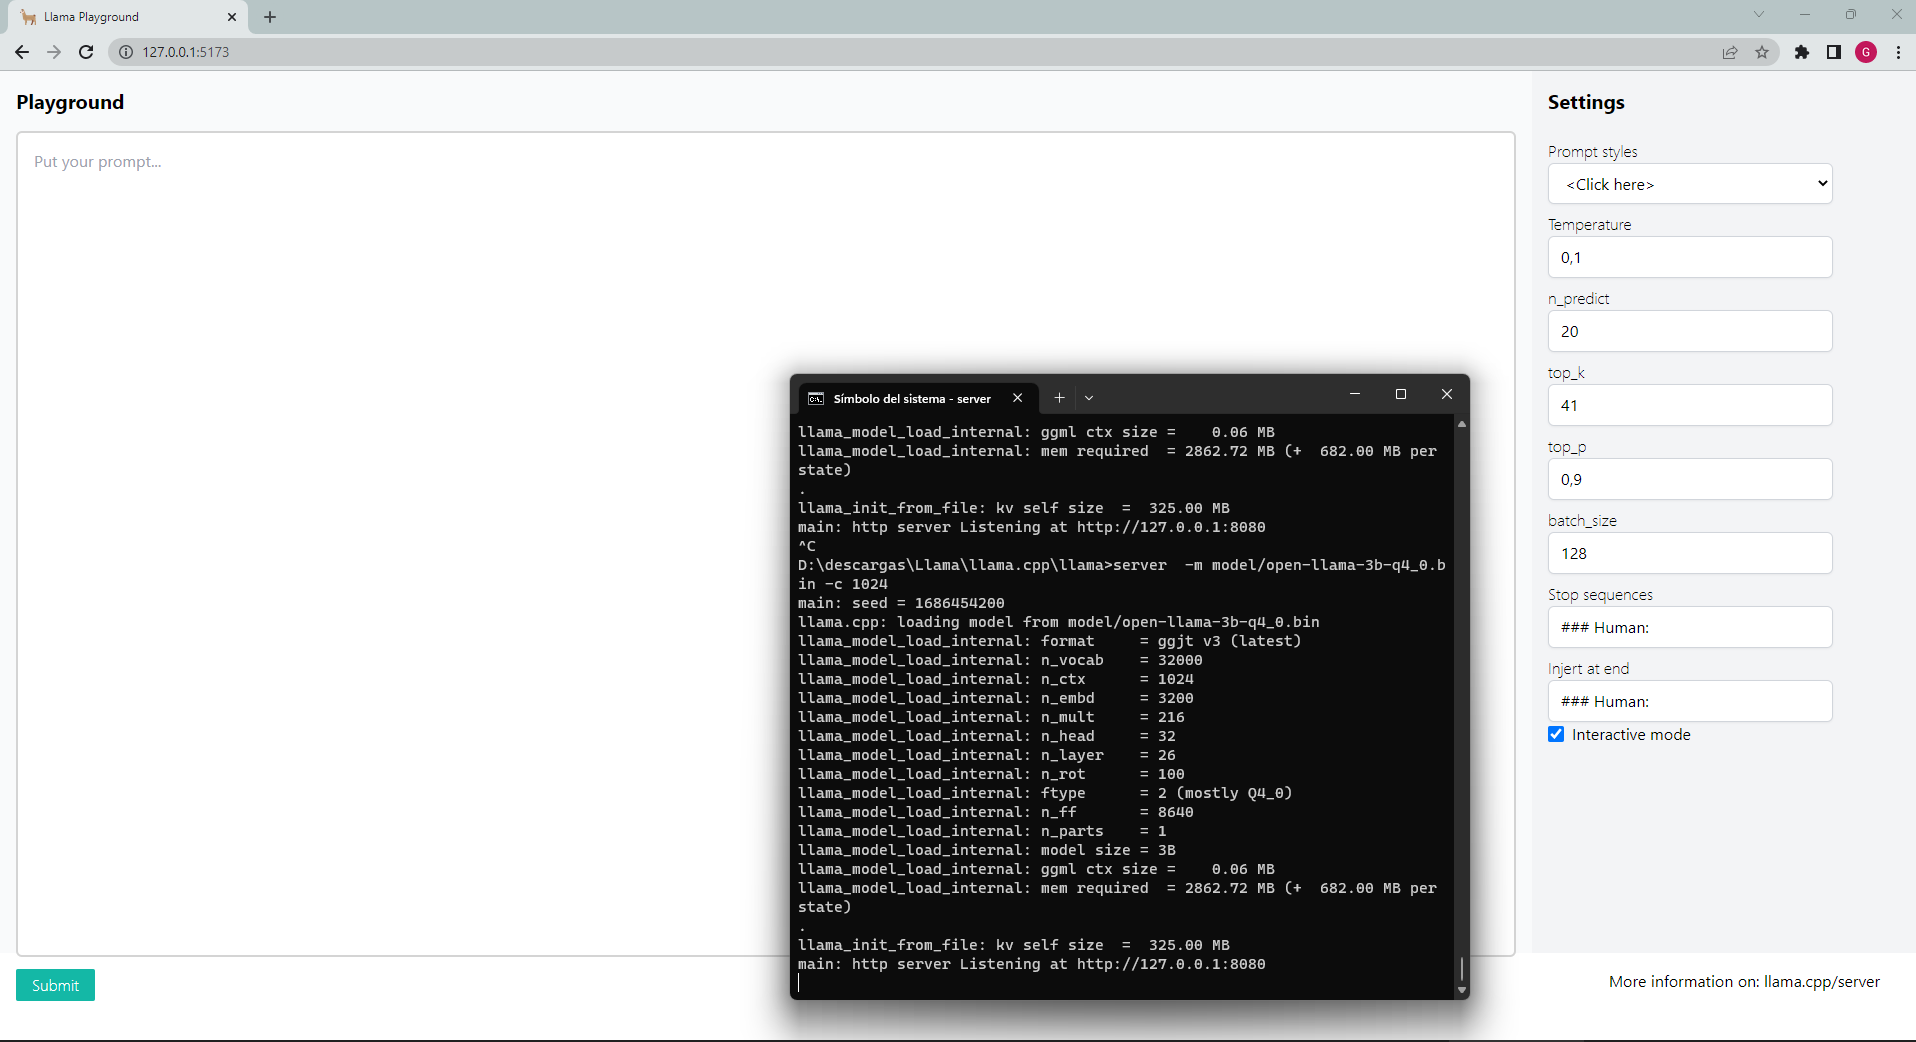
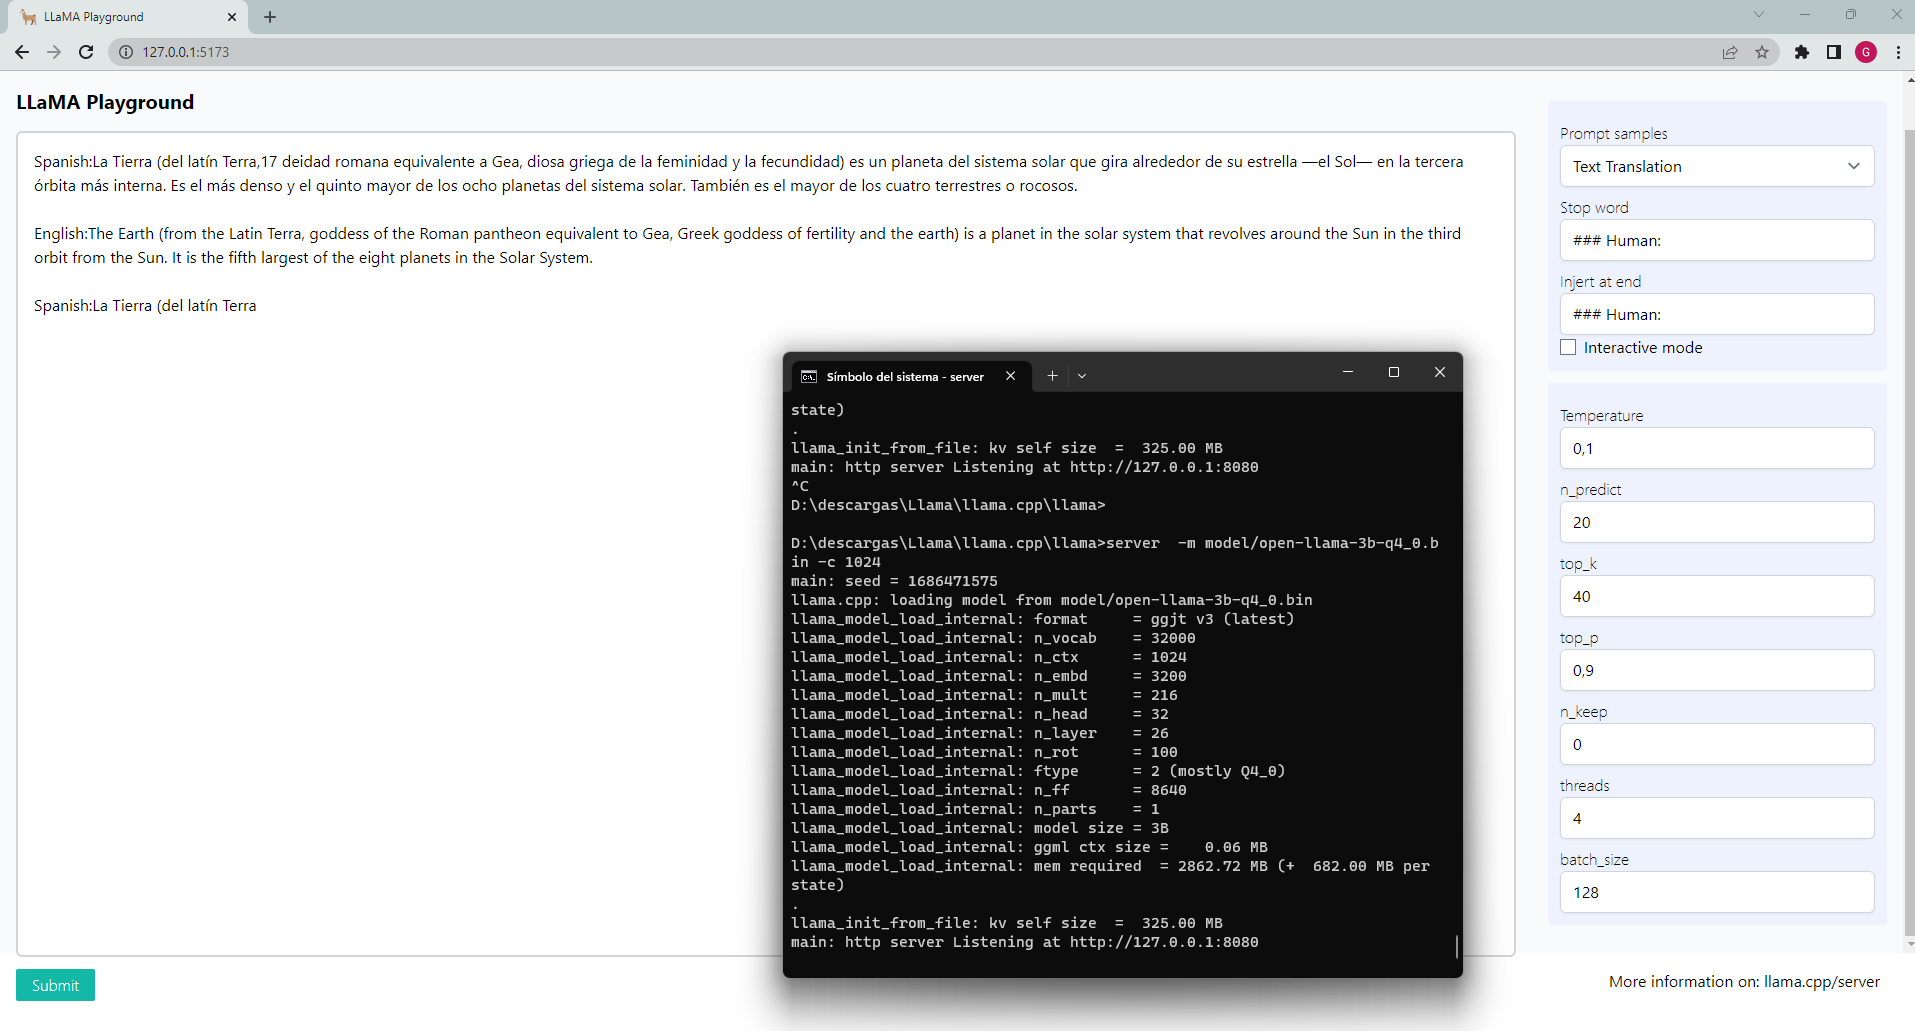
ui improvements, tooltips

diff --git a/src/components/Playground.vue b/src/components/Playground.vue
@@ -1,62 +1,87 @@
 <template>
-  <div  class="lg:h-[91vh] h-[88vh] cursor-default" 
+  <div  class="lg:h-[91vh] h-[85vh] cursor-default" 
   @keyup.ctrl.enter="getStreamCompletion()"
   @keyup.alt.c="stopCompletion()"
   @keyup.alt.l="clearAll()"
   >
-    <div class="flex h-full">
 
-     
+
+    <div class="flex h-full">
       <div class="flex-grow w-full h-full pb-10 bg-gray-50 p-4">
-        <h2 class="text-xl font-bold mb-4">Playground</h2>
+        <h2 class="flex justify-start text-xl font-bold mb-4">LLaMA Playground<div :class="{ 'hidden' : !completing }"><svg fill="rgb(20 184 166)" width="24" height="24" viewBox="0 0 24 24" xmlns="http://www.w3.org/2000/svg"><circle class="spinner_I8Q1" cx="4" cy="12" r="1.5"/><circle class="spinner_I8Q1 spinner_vrS7" cx="12" cy="12" r="3"/><circle class="spinner_I8Q1"  cx="20" cy="12" r="1.5"/></svg></div></h2>
 
         <!-- Prompt Area -->
-        <textarea ref="promptBoxArea" v-model="promptBoxContent" class="w-full h-full resize-none p-4 border-2 rounded-md border-neutral-300 outline-none" placeholder="Put your prompt...">Esto es</textarea>
+        <textarea ref="promptBoxArea" v-model="promptBoxContent" class="w-full h-full resize-none p-4 border-2 rounded-md border-neutral-300 outline-none" placeholder="Put your prompt..."></textarea>
       </div>
 
       <!-- Settings panel -->
-      <div class="w-1/4 p-4 bg-gray-100 overflow-auto ">
+      <div class="w-1/4 p-4 bg-gray-50  overflow-auto ">
         <h2 class="text-xl font-bold mb-4">Settings</h2>
 
-        <!-- Preset select -->
-        <h1 class="font-light pt-2">Prompt styles</h1>
-        <select class="w-4/5   block w-full py-2 px-3 border border-gray-300 rounded-md shadow-sm focus:outline-none w- focus:ring-indigo-500" @change="handlePresets($event)">
-          <option v-for="value, key in presets" :value="value.value" :key="value.value">{{ key }}</option>
-        </select>
+        <div class="pt-4">
+          <div class="bg-indigo-50 rounded p-3">
+            <!-- Preset select -->
+            <h1 class="font-light pt-2">Prompt samples</h1>
+            <select class="w-4/5   block w-full py-2 px-3 border border-gray-300 rounded-md shadow-sm focus:outline-none w- focus:ring-indigo-500" @change="handlePresets($event)">
+              <option v-for="value, key in samplePrompts" :value="value.value" :key="value.value">{{ key }}</option>
+            </select>
+            <h1 class="font-light pt-2">Stop word</h1>
+            <PopOver target="p_stop_sequence" title="Stop Sequences" message="The prompt completion will stop when this value/s are detected. Input split separated with ','"></PopOver>
+            <input data-popover-target="p_stop_sequence" v-model="p_stop_words" type="text" class="block w-full py-2 px-3 border border-gray-300 rounded-md shadow-sm w-4/5 focus:outline-none focus:ring-indigo-500">
 
-        <!-- temperature -->
-        <h1 class="font-light pt-2">Temperature</h1>
-        <input v-model="p_temperature" type="number" step="0.1" min="0" max="1"  class="appearance-none block w-full py-2 px-3  w-4/5 border border-gray-300 rounded-md shadow-sm focus:outline-none focus:ring-indigo-500 max-w-xs">
-        
-        <!-- n_predict  -->
-        <h1 class="font-light pt-2">n_predict</h1>
-        <input v-model="p_n_predict" type="number" step="1" min="0" max="2048"  class="appearance-none block w-full py-2 px-3 w-4/5 border border-gray-300 rounded-md shadow-sm focus:outline-none focus:ring-indigo-500 max-w-xs">
+            <h1 class="font-light pt-2">Injert at end</h1>
+            <PopOver target="p_injert_end" title="Injert at the end" message="After each completion and if interaction mode is checked, this value will be added at the end of the prompt."></PopOver>
+            <input data-popover-target="p_injert_end" v-model="p_injertion_end" type="text" class="block w-full py-2 px-3 border border-gray-300 rounded-md shadow-sm w-4/5 focus:outline-none focus:ring-indigo-500">
 
-        
-        <!-- top_k  -->
-        <h1 class="font-light pt-2">top_k</h1>
-        <input v-model="p_top_k" type="number" step="1" min="0" max="2048"  class="appearance-none block w-full py-2 px-3 border w-4/5 border-gray-300 rounded-md shadow-sm focus:outline-none focus:ring-indigo-500 max-w-xs">
+            <PopOver target="p_interactive_mode" title="Interactive mode" message="The completion stops when a stop word is detected."></PopOver>
+            <div data-popover-target="p_interactive_mode" class="flex items-center">
+              <input   type="checkbox" v-model="p_interactive" id="checkbox" class="form-checkbox  text-indigo-500 h-4 w-4">
+              <label for="checkbox" class="align-middle ml-2">Interactive mode</label>
+            </div>
+          </div>
+        </div>  
+        <div class="py-3">
+          <div class="bg-indigo-50  rounded p-3">
+            <!-- temperature -->
+            <h1 class="font-light pt-2">Temperature</h1>
+            <PopOver target="n_p_temperature" title="Temperature" message="Control the randomness or creativity."></PopOver>
+            <input data-popover-target="n_p_temperature" v-model="p_temperature" type="number" step="0.1" min="0" max="1"  class="appearance-none block w-full py-2 px-3  w-4/5 border border-gray-300 rounded-md shadow-sm focus:outline-none focus:ring-indigo-500 max-w-xs">
+            
+            <!-- n_predict  -->
+            <h1 class="font-light pt-2">n_predict</h1>
+            <PopOver target="n_p_tooltip" title="Numbers of tokens" message="Numbers of tokens to predict when output is generated."></PopOver>
+            <input data-popover-target="n_p_tooltip"  v-model="p_n_predict" type="number" step="1" min="0" max="2048"  class="appearance-none block w-full py-2 px-3 w-4/5 border border-gray-300 rounded-md shadow-sm focus:outline-none focus:ring-indigo-500 max-w-xs">
 
-        <!-- top_p  -->
-        <h1 class="font-light pt-2">top_p</h1>
-        <input v-model="p_top_p" type="number" step="1" min="0" max="2048"  class="appearance-none block w-full py-2 px-3 border w-4/5 border-gray-300 rounded-md shadow-sm focus:outline-none focus:ring-indigo-500 max-w-xs">
+            
+            <!-- top_k  -->
+            <h1 class="font-light pt-2">top_k</h1>
+            <PopOver target="n_p_top_k" title="Top K" message="During each token, select the most probable from K tokens. (defaul: 40)."></PopOver>
+            <input data-popover-target="n_p_top_k"  v-model="p_top_k" type="number" step="1" min="0" max="2048"  class="appearance-none block w-full py-2 px-3 border w-4/5 border-gray-300 rounded-md shadow-sm focus:outline-none focus:ring-indigo-500 max-w-xs">
 
-        <!-- batch_size  -->
-        <h1 class="font-light pt-2">batch_size</h1>
-        <input v-model="p_batch_size" type="number" step="1" min="0" max="2048"  class="appearance-none block w-full py-2 px-3 w-4/5 border border-gray-300 rounded-md shadow-sm focus:outline-none focus:ring-indigo-500 max-w-xs">
+            <!-- top_p  -->
+            <h1 class="font-light pt-2">top_p</h1>
+            <PopOver target="n_p_top_p" title="Top P" message="Limits the selection of the next token based on the most probable amount over P. (default:0.9)"></PopOver>
+            <input data-popover-target="n_p_top_p"   v-model="p_top_p" type="number" step="1" min="0" max="2048"  class="appearance-none block w-full py-2 px-3 border w-4/5 border-gray-300 rounded-md shadow-sm focus:outline-none focus:ring-indigo-500 max-w-xs">
+            
+            <!-- n_keep  -->
+            <h1 class="font-light pt-2">n_keep</h1>
+            <input v-model="p_n_keep" type="number" step="1" min="-1" max="2048"  class="appearance-none block w-full py-2 px-3 border w-4/5 border-gray-300 rounded-md shadow-sm focus:outline-none focus:ring-indigo-500 max-w-xs">
 
-        <h1 class="font-light pt-2">Stop sequences</h1>
-        <input v-model="p_stop_words" type="text" class="block w-full py-2 px-3 border border-gray-300 rounded-md shadow-sm w-4/5 focus:outline-none focus:ring-indigo-500">
-          <h1 class="font-light pt-2">Injert at end</h1>
-        <input v-model="p_injertion_end" type="text" class="block w-full py-2 px-3 border border-gray-300 rounded-md shadow-sm w-4/5 focus:outline-none focus:ring-indigo-500">
+            <!-- threads  -->
+            <h1 class="font-light pt-2">threads</h1>
+            <input v-model="p_threads" type="number" step="1" min="1" max="2048"  class="appearance-none block w-full py-2 px-3 border w-4/5 border-gray-300 rounded-md shadow-sm focus:outline-none focus:ring-indigo-500 max-w-xs">
 
-        <div class="flex items-center">
-          <input type="checkbox" v-model="p_interactive" id="checkbox" class="form-checkbox  text-indigo-500 h-4 w-4">
-          <label for="checkbox" class="align-middle ml-2">Interactive mode</label>
+            <!-- batch_size  -->
+            <h1 class="font-light pt-2">batch_size</h1>
+            <PopOver target="n_p_batch_size" title="Batch size" message="Process the set-aside prompt"></PopOver>
+            <input data-popover-target="n_p_batch_size" v-model="p_batch_size" type="number" step="1" min="0" max="2048"  class="appearance-none block w-full py-2 px-3 w-4/5 border border-gray-300 rounded-md shadow-sm focus:outline-none focus:ring-indigo-500 max-w-xs">
+          </div>
         </div>
-
       </div>
     </div>
+    
+
+  </div>
 
     <div class="flex">
       <div class="flex p-2 pt-4 pl-4">
@@ -65,44 +90,41 @@
         :class="{ 'opacity-50': completing }"
         @click="completing ? stopCompletion() : getStreamCompletion()">
         {{ completing ? "Cancel" : "Submit" }}
-        </button>
-        
-        </div>
-        <p class="absolute mt-4 right-10">More information on: <a href="https://github.com/ggerganov/llama.cpp/tree/master/examples/server" target="_blank">llama.cpp/server</a></p>
-        </div>
 
-  </div>
+        </button>
+      </div>
+      <p class="absolute mt-4 right-10">More information on: <a href="https://github.com/ggerganov/llama.cpp/tree/master/examples/server" target="_blank">llama.cpp/server</a></p>
+    </div>
+
 </template>
 
 <script>
 import { nextTick, ref } from 'vue'
+import { samplePrompts } from "../utils/samplePrompts";
+import PopOver from "../components/PopOver.vue"
 
 export default {
   name:"Playground",
-  setup(){
+  components:{
+    PopOver
+  },
+  setup(props){
     const promptBoxContent = ref("")
     const promptBoxArea = ref()
     const completing = ref(false);
-
-    const presets = ref({
-        "<Click here>":"",
-        "Default":"Hello World, how are",
-        "Chat Style":"This is a chat between a human and assistant\n### Human:Hello.\n### Assistant:Hello Human\n### Human:",
-        "Summarization":"Text:\n\n\ntldr:"
-    })
 
     // parameters
     const p_batch_size = ref(128)
     const p_temperature = ref(0.1)
     const p_top_k = ref(40)
     const p_top_p = ref(0.9)
-    const p_n_keep = ref(-1)
+    const p_n_keep = ref(0)
     const p_n_predict = ref(20)
     const p_as_loop = ref(true)
     const p_stop_words = ref("### Human:")
-    const p_interactive = ref(true)
+    const p_interactive = ref(false)
     const p_injertion_end = ref("### Human:")
-
+    const p_threads = ref(4)
     const switchGeneratingMode = () => {
         promptBoxArea.value.disabled = !promptBoxArea.value.disabled
         completing.value = !completing.value
@@ -125,16 +147,16 @@ export default {
     const clearAll = ()=> {
       promptBoxContent.value = ""
     }
-    const splitSequence = (input)=>{
+    const splitSequence = (input) => {
       const words = input.length>0?input.split(','):[]
       return words;
     }
 
-    const handlePresets = (event)=>{
+    const handlePresets = (event) => {
       const presetKey = event.target.value
       console.log("[!] Selected preset prompt", presetKey)
 
-      promptBoxContent.value = presets.value[presetKey]
+      promptBoxContent.value = samplePrompts[presetKey]
 
     }
     async function getStreamCompletion () {
@@ -146,11 +168,14 @@ export default {
         top_p: p_top_p.value,
         n_keep: p_n_keep.value,
         n_predict: p_n_predict.value,
+        threads:p_threads.value,
         as_loop: p_as_loop.value,
-        stop: splitSequence(p_stop_words.value),
+        
         interactive: p_interactive.value
       };
-
+      if(p_interactive.value){
+        data.stop = splitSequence(p_stop_words.value)
+      }
       switchGeneratingMode()
       try {
         console.info("[!] Sending Prompt...", data)
@@ -194,7 +219,7 @@ export default {
       promptBoxContent,
       promptBoxArea,
       completing,
-
+      samplePrompts,
       // Parameters
       p_batch_size,
       p_temperature,
@@ -202,12 +227,12 @@ export default {
       p_top_p,
       p_n_keep,
       p_n_predict,
+      p_threads,
       p_as_loop,
       p_stop_words,
       p_interactive,
       p_interactive,
       p_injertion_end,
-      presets,
       handlePresets,
       stopCompletion,
       clearAll
@@ -215,8 +240,6 @@ export default {
   }
 }
 </script>
-
-
-<style scoped>
-
+<style>
+.spinner_I8Q1{animation:spinner_qhi1 .75s linear infinite}.spinner_vrS7{animation-delay:-.375s}@keyframes spinner_qhi1{0%,100%{r:1.5px}50%{r:3px}}
 </style>

diff --git a/src/components/PopOver.vue b/src/components/PopOver.vue
@@ -1,0 +1,26 @@
+<template>
+<div data-popover :id="target" role="tooltip" class="absolute z-10 invisible inline-block w-64 text-sm text-gray-500 transition-opacity duration-300 bg-white border border-gray-200 rounded-lg shadow-sm opacity-0 dark:text-gray-400 dark:border-gray-600 dark:bg-gray-800">
+    <div class="px-3 py-2 bg-gray-100 border-b border-gray-200 rounded-t-lg dark:border-gray-600 dark:bg-gray-700">
+        <h3 class="font-semibold text-gray-900 dark:text-white"> {{ title }}</h3>
+    </div>
+    <div class="px-3 py-2">
+        <p>{{ message }}</p>
+    </div>
+    <div data-popper-arrow></div>
+</div>
+</template>
+<script>
+ export default {
+ 	name:'PopOver',
+ 	props:{
+ 		target:{type:String, required:true},
+ 		title: {type:String, default:"Sample title"},
+ 		message : {type:String, default:"Sample message"}
+ 	},
+ 	setup(){
+
+ 		return{}
+ 	}
+ }
+
+</script>

diff --git a/src/utils/samplePrompts.ts b/src/utils/samplePrompts.ts
@@ -1,0 +1,16 @@
+import { reactive  } from 'vue'
+
+const prompts = {
+    "<Click here>":"",
+    "Default":"Hello World, how are",
+    "Text Translation":"Spanish:La Tierra (del latín Terra,17 deidad romana equivalente a Gea, diosa griega de la feminidad y la fecundidad) es un planeta del sistema solar que gira alrededor de su estrella —el Sol— en la tercera órbita más interna. Es el más denso y el quinto mayor de los ocho planetas del sistema solar. También es el mayor de los cuatro terrestres o rocosos.\n\nEnglish:",
+    "Chat Style":"This is a chat between a human and assistant\n### Human:Hello.\n### Assistant:Hello Human\n### Human:",
+    "Summarization":"Text:\n\n\ntldr:"
+}
+
+
+let samplePrompts = reactive({})
+
+Object.assign(samplePrompts,prompts)
+
+export { samplePrompts }

diff --git a/index.html b/index.html
@@ -2,12 +2,14 @@
 <html lang="en">
   <head>
     <meta charset="UTF-8" />
+    <link href="https://cdnjs.cloudflare.com/ajax/libs/flowbite/1.6.5/flowbite.min.css" rel="stylesheet" />
     <link rel="icon" type="image/svg+xml" href="/llama.svg" />
     <meta name="viewport" content="width=device-width, initial-scale=1.0" />
-    <title>Llama Playground</title>
+    <title>LLaMA Playground</title>
   </head>
   <body>
     <div id="app" style="height:100%"></div>
     <script type="module" src="/src/main.ts"></script>
+    <script src="https://cdnjs.cloudflare.com/ajax/libs/flowbite/1.6.5/flowbite.min.js"></script>
   </body>
 </html>

diff --git a/README.md b/README.md
@@ -5,7 +5,7 @@ A very simple playground inpired on Open-AI playground for llama.cpp http server
 server.cpp: https://github.com/ggerganov/llama.cpp/blob/master/examples/server/server.cpp
 
 ### Screenshot
- ![Image](https://i.ibb.co/HKFNH2K/screenshot.png)
+ ![Image](https://i.ibb.co/6gJXCCD/screenshot.png)
 
 ### Configure proxy address
 
